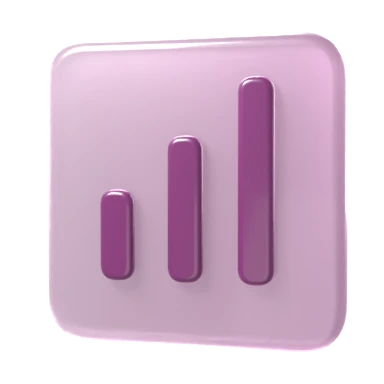
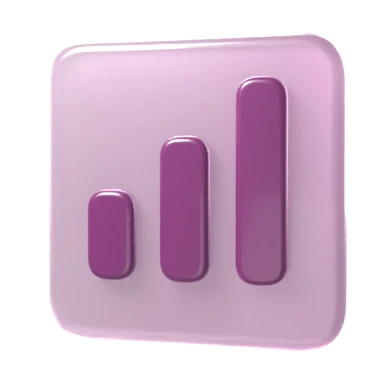
v5: chunkier chart bars

diff --git a/source/v5/sectors.html b/source/v5/sectors.html
@@ -50,7 +50,7 @@
     <div class="page">
       <div class="bento rise">
         <a class="tile" href="#banking">
-          <img class="tile-icon" src="../assets/icons-3d/bank.webp?v=39" alt="" width="384" height="384" decoding="async">
+          <img class="tile-icon" src="../assets/icons-3d/bank.webp?v=40" alt="" width="384" height="384" decoding="async">
           <h3>Banking, Private Equity &amp;&nbsp;Financial Services</h3>
           <div class="tile-reveal"><div>
             <ul class="tags"><li>Investment banking</li><li>Wealth management</li><li>Private equity</li><li>Retail banking</li><li>Risk</li></ul>
@@ -60,7 +60,7 @@
           <span class="tile-go" aria-hidden="true">→</span>
         </a>
         <a class="tile" href="#consulting">
-          <img class="tile-icon" src="../assets/icons-3d/chart.webp?v=39" alt="" width="384" height="384" decoding="async">
+          <img class="tile-icon" src="../assets/icons-3d/chart.webp?v=40" alt="" width="384" height="384" decoding="async">
           <h3>Consulting &amp;&nbsp;Advisory</h3>
           <div class="tile-reveal"><div>
             <ul class="tags"><li>Strategy</li><li>Research</li><li>Advisory firms</li></ul>
@@ -70,7 +70,7 @@
           <span class="tile-go" aria-hidden="true">→</span>
         </a>
         <a class="tile" href="#consumer">
-          <img class="tile-icon" src="../assets/icons-3d/factory.webp?v=39" alt="" width="384" height="384" decoding="async">
+          <img class="tile-icon" src="../assets/icons-3d/factory.webp?v=40" alt="" width="384" height="384" decoding="async">
           <h3>FMCG, Healthcare &amp;&nbsp;Industrials</h3>
           <div class="tile-reveal"><div>
             <ul class="tags"><li>Consumer</li><li>Healthcare</li><li>Life sciences</li><li>Industrial</li></ul>
@@ -80,7 +80,7 @@
           <span class="tile-go" aria-hidden="true">→</span>
         </a>
         <a class="tile" href="#legal">
-          <img class="tile-icon" src="../assets/icons-3d/scales.webp?v=39" alt="" width="384" height="384" decoding="async">
+          <img class="tile-icon" src="../assets/icons-3d/scales.webp?v=40" alt="" width="384" height="384" decoding="async">
           <h3>Legal</h3>
           <div class="tile-reveal"><div>
             <ul class="tags"><li>In-house counsel</li><li>Law-firm partners</li><li>Practice groups</li></ul>
@@ -90,7 +90,7 @@
           <span class="tile-go" aria-hidden="true">→</span>
         </a>
         <a class="tile" href="#media">
-          <img class="tile-icon" src="../assets/icons-3d/megaphone.webp?v=39" alt="" width="384" height="384" decoding="async">
+          <img class="tile-icon" src="../assets/icons-3d/megaphone.webp?v=40" alt="" width="384" height="384" decoding="async">
           <h3>Media, Advertising &amp;&nbsp;Hospitality</h3>
           <div class="tile-reveal"><div>
             <ul class="tags"><li>Agency leadership</li><li>Account planning</li><li>Digital strategy</li><li>Hotels</li></ul>
@@ -100,7 +100,7 @@
           <span class="tile-go" aria-hidden="true">→</span>
         </a>
         <a class="tile" href="#social">
-          <img class="tile-icon" src="../assets/icons-3d/heart.webp?v=39" alt="" width="384" height="384" decoding="async">
+          <img class="tile-icon" src="../assets/icons-3d/heart.webp?v=40" alt="" width="384" height="384" decoding="async">
           <h3>IQ Social</h3>
           <div class="tile-reveal"><div>
             <ul class="tags"><li>CSR teams</li><li>NGOs</li><li>Foundations</li></ul>
@@ -118,7 +118,7 @@
     <div class="page sector-list">
       <article class="sector" id="banking" aria-labelledby="banking-title">
         <div class="sector-side">
-          <img class="sector-icon" src="../assets/icons-3d/bank.webp?v=39" alt="" width="384" height="384" decoding="async">
+          <img class="sector-icon" src="../assets/icons-3d/bank.webp?v=40" alt="" width="384" height="384" decoding="async">
           <h2 id="banking-title">Banking, Private Equity &amp;&nbsp;Financial Services</h2>
           <p class="lead-by"><span class="face"><img src="../assets/team-face/ashmita.jpg" alt="" width="160" height="160"></span><span>Led by Ashmita Ray Sarkar</span></p>
         </div>
@@ -133,7 +133,7 @@
       </article>
       <article class="sector" id="consulting" aria-labelledby="consulting-title">
         <div class="sector-side">
-          <img class="sector-icon" src="../assets/icons-3d/chart.webp?v=39" alt="" width="384" height="384" decoding="async">
+          <img class="sector-icon" src="../assets/icons-3d/chart.webp?v=40" alt="" width="384" height="384" decoding="async">
           <h2 id="consulting-title">Consulting &amp;&nbsp;Advisory</h2>
           <p class="lead-by"><span class="face"><img src="../assets/team-face/ashmita.jpg" alt="" width="160" height="160"></span><span>Led by Ashmita Ray Sarkar</span></p>
         </div>
@@ -146,7 +146,7 @@
       </article>
       <article class="sector" id="consumer" aria-labelledby="consumer-title">
         <div class="sector-side">
-          <img class="sector-icon" src="../assets/icons-3d/factory.webp?v=39" alt="" width="384" height="384" decoding="async">
+          <img class="sector-icon" src="../assets/icons-3d/factory.webp?v=40" alt="" width="384" height="384" decoding="async">
           <h2 id="consumer-title">FMCG, Healthcare &amp;&nbsp;Industrials</h2>
           <p class="lead-by"><span class="face"><img src="../assets/team-face/ashmita.jpg" alt="" width="160" height="160"></span><span>Led by Ashmita Ray Sarkar</span></p>
         </div>
@@ -160,7 +160,7 @@
       </article>
       <article class="sector" id="legal" aria-labelledby="legal-title">
         <div class="sector-side">
-          <img class="sector-icon" src="../assets/icons-3d/scales.webp?v=39" alt="" width="384" height="384" decoding="async">
+          <img class="sector-icon" src="../assets/icons-3d/scales.webp?v=40" alt="" width="384" height="384" decoding="async">
           <h2 id="legal-title">Legal</h2>
           <p class="lead-by"><span class="face"><img src="../assets/team-face/shirin.jpg" alt="" width="160" height="160"></span><span>Led by Shirin Gulrajani Talwar</span></p>
         </div>
@@ -174,7 +174,7 @@
       </article>
       <article class="sector" id="media" aria-labelledby="media-title">
         <div class="sector-side">
-          <img class="sector-icon" src="../assets/icons-3d/megaphone.webp?v=39" alt="" width="384" height="384" decoding="async">
+          <img class="sector-icon" src="../assets/icons-3d/megaphone.webp?v=40" alt="" width="384" height="384" decoding="async">
           <h2 id="media-title">Media, Advertising &amp;&nbsp;Hospitality</h2>
           <p class="lead-by"><span class="face"><img src="../assets/team-face/annu.jpg" alt="" width="160" height="160"></span><span>Led by Annu Paul</span></p>
         </div>
@@ -188,7 +188,7 @@
       </article>
       <article class="sector" id="social" aria-labelledby="social-title">
         <div class="sector-side">
-          <img class="sector-icon" src="../assets/icons-3d/heart.webp?v=39" alt="" width="384" height="384" decoding="async">
+          <img class="sector-icon" src="../assets/icons-3d/heart.webp?v=40" alt="" width="384" height="384" decoding="async">
           <h2 id="social-title">IQ Social</h2>
           <p class="lead-by"><span class="face"><img src="../assets/team-face/christine.jpg" alt="" width="160" height="160"></span><span>Led by Christine Gomes</span></p>
         </div>

diff --git a/source/v5/index.html b/source/v5/index.html
@@ -98,7 +98,7 @@
       </div>
       <div class="bento rise">
         <a class="tile" href="sectors.html#banking">
-          <img class="tile-icon" src="../assets/icons-3d/bank.webp?v=39" alt="" width="384" height="384" decoding="async">
+          <img class="tile-icon" src="../assets/icons-3d/bank.webp?v=40" alt="" width="384" height="384" decoding="async">
           <h3>Banking, Private Equity &amp;&nbsp;Financial Services</h3>
           <div class="tile-reveal"><div>
             <ul class="tags"><li>Investment banking</li><li>Wealth management</li><li>Private equity</li><li>Retail banking</li><li>Risk</li></ul>
@@ -108,7 +108,7 @@
           <span class="tile-go" aria-hidden="true">→</span>
         </a>
         <a class="tile" href="sectors.html#consulting">
-          <img class="tile-icon" src="../assets/icons-3d/chart.webp?v=39" alt="" width="384" height="384" decoding="async">
+          <img class="tile-icon" src="../assets/icons-3d/chart.webp?v=40" alt="" width="384" height="384" decoding="async">
           <h3>Consulting &amp;&nbsp;Advisory</h3>
           <div class="tile-reveal"><div>
             <ul class="tags"><li>Strategy</li><li>Research</li><li>Advisory firms</li></ul>
@@ -118,7 +118,7 @@
           <span class="tile-go" aria-hidden="true">→</span>
         </a>
         <a class="tile" href="sectors.html#consumer">
-          <img class="tile-icon" src="../assets/icons-3d/factory.webp?v=39" alt="" width="384" height="384" decoding="async">
+          <img class="tile-icon" src="../assets/icons-3d/factory.webp?v=40" alt="" width="384" height="384" decoding="async">
           <h3>FMCG, Healthcare &amp;&nbsp;Industrials</h3>
           <div class="tile-reveal"><div>
             <ul class="tags"><li>Consumer</li><li>Healthcare</li><li>Life sciences</li><li>Industrial</li></ul>
@@ -128,7 +128,7 @@
           <span class="tile-go" aria-hidden="true">→</span>
         </a>
         <a class="tile" href="sectors.html#legal">
-          <img class="tile-icon" src="../assets/icons-3d/scales.webp?v=39" alt="" width="384" height="384" decoding="async">
+          <img class="tile-icon" src="../assets/icons-3d/scales.webp?v=40" alt="" width="384" height="384" decoding="async">
           <h3>Legal</h3>
           <div class="tile-reveal"><div>
             <ul class="tags"><li>In-house counsel</li><li>Law-firm partners</li><li>Practice groups</li></ul>
@@ -138,7 +138,7 @@
           <span class="tile-go" aria-hidden="true">→</span>
         </a>
         <a class="tile" href="sectors.html#media">
-          <img class="tile-icon" src="../assets/icons-3d/megaphone.webp?v=39" alt="" width="384" height="384" decoding="async">
+          <img class="tile-icon" src="../assets/icons-3d/megaphone.webp?v=40" alt="" width="384" height="384" decoding="async">
           <h3>Media, Advertising &amp;&nbsp;Hospitality</h3>
           <div class="tile-reveal"><div>
             <ul class="tags"><li>Agency leadership</li><li>Account planning</li><li>Digital strategy</li><li>Hotels</li></ul>
@@ -148,7 +148,7 @@
           <span class="tile-go" aria-hidden="true">→</span>
         </a>
         <a class="tile" href="sectors.html#social">
-          <img class="tile-icon" src="../assets/icons-3d/heart.webp?v=39" alt="" width="384" height="384" decoding="async">
+          <img class="tile-icon" src="../assets/icons-3d/heart.webp?v=40" alt="" width="384" height="384" decoding="async">
           <h3>IQ Social</h3>
           <div class="tile-reveal"><div>
             <ul class="tags"><li>CSR teams</li><li>NGOs</li><li>Foundations</li></ul>
@@ -167,11 +167,11 @@
     <div class="page">
       <div class="section-head"><h2 id="hires-title">Recent hires</h2></div>
       <ul class="hire-rows rise">
-        <li><img class="sector-icon" src="../assets/icons-3d/factory.webp?v=39" alt="" width="384" height="384" decoding="async"><b>CEO</b><span class="org">A leading specialty chemicals manufacturer</span><span class="sec">Industrials</span></li>
-        <li><img class="sector-icon" src="../assets/icons-3d/factory.webp?v=39" alt="" width="384" height="384" decoding="async"><b>CFO</b><span class="org">An Indian precision engineering company</span><span class="sec">Industrials</span></li>
-        <li><img class="sector-icon" src="../assets/icons-3d/bank.webp?v=39" alt="" width="384" height="384" decoding="async"><b>VP, Investments</b><span class="org">A leading Indian private equity firm</span><span class="sec">Private equity</span></li>
-        <li><img class="sector-icon" src="../assets/icons-3d/heart.webp?v=39" alt="" width="384" height="384" decoding="async"><b>Head of CSR, India</b><span class="org">A large European bank</span><span class="sec">IQ Social</span></li>
-        <li><img class="sector-icon" src="../assets/icons-3d/bank.webp?v=39" alt="" width="384" height="384" decoding="async"><b>CMO</b><span class="org">A leading private sector Indian bank</span><span class="sec">Banking</span></li>
+        <li><img class="sector-icon" src="../assets/icons-3d/factory.webp?v=40" alt="" width="384" height="384" decoding="async"><b>CEO</b><span class="org">A leading specialty chemicals manufacturer</span><span class="sec">Industrials</span></li>
+        <li><img class="sector-icon" src="../assets/icons-3d/factory.webp?v=40" alt="" width="384" height="384" decoding="async"><b>CFO</b><span class="org">An Indian precision engineering company</span><span class="sec">Industrials</span></li>
+        <li><img class="sector-icon" src="../assets/icons-3d/bank.webp?v=40" alt="" width="384" height="384" decoding="async"><b>VP, Investments</b><span class="org">A leading Indian private equity firm</span><span class="sec">Private equity</span></li>
+        <li><img class="sector-icon" src="../assets/icons-3d/heart.webp?v=40" alt="" width="384" height="384" decoding="async"><b>Head of CSR, India</b><span class="org">A large European bank</span><span class="sec">IQ Social</span></li>
+        <li><img class="sector-icon" src="../assets/icons-3d/bank.webp?v=40" alt="" width="384" height="384" decoding="async"><b>CMO</b><span class="org">A leading private sector Indian bank</span><span class="sec">Banking</span></li>
       </ul>
     </div>
   </section>

diff --git a/tools/icons3d/render.py b/tools/icons3d/render.py
@@ -196,8 +196,8 @@ def icon_bank(G, A):
 
 def icon_chart(G, A):
     slab(rrect(-1.05, -1.05, 1.05, 1.05, 0.32), T, G, 0.0, E)                             # tile
-    for x, h in ((-0.48, 0.62), (0.0, 0.98), (0.48, 1.36)):
-        slab(rrect(x - 0.12, -0.6, x + 0.12, -0.6 + h, 0.11), 0.1, A, T / 2 + 0.06, 0.045)  # bars, laid on the tile
+    for x, h in ((-0.52, 0.62), (0.0, 0.98), (0.52, 1.36)):
+        slab(rrect(x - 0.17, -0.6, x + 0.17, -0.6 + h, 0.15), 0.12, A, T / 2 + 0.07, 0.05)  # bars, laid on the tile
 
 
 def icon_factory(G, A):

diff --git a/docs/V4_DIRECTION.md b/docs/V4_DIRECTION.md
@@ -19,9 +19,11 @@
 - **Factory:** the chimney's bottom is cut along the first sawtooth slope, so it ends on the roofline. It is slightly wider to compensate for the inset.
 - **Scales:** these keep the outward bevel (`inset=False`). Insetting a 0.1–0.14-tall beam leaves nothing, and Blender's offset spiked there.
 
-**Cache.** Icon references are now `?v=39`.
+**Cache.** Icon references are now `?v=40`.
 
 **Follow-up: chunkier bank columns.** The columns were 0.17 wide and 1.0 tall (about 6:1) and read as thin and tall. They are now 0.26 wide, with the roof and base brought closer together so about 0.82 shows (about 3:1).
+
+**Follow-up: chunkier chart bars.** The bars are 0.34 wide (was 0.24), spaced 0.52 apart (was 0.48), with end radius 0.15, so they match the bank columns.
 
 **Verified** on a contact sheet on dark and light backgrounds, then on the 1440 strip at rest and on hover (bank, factory).
 
